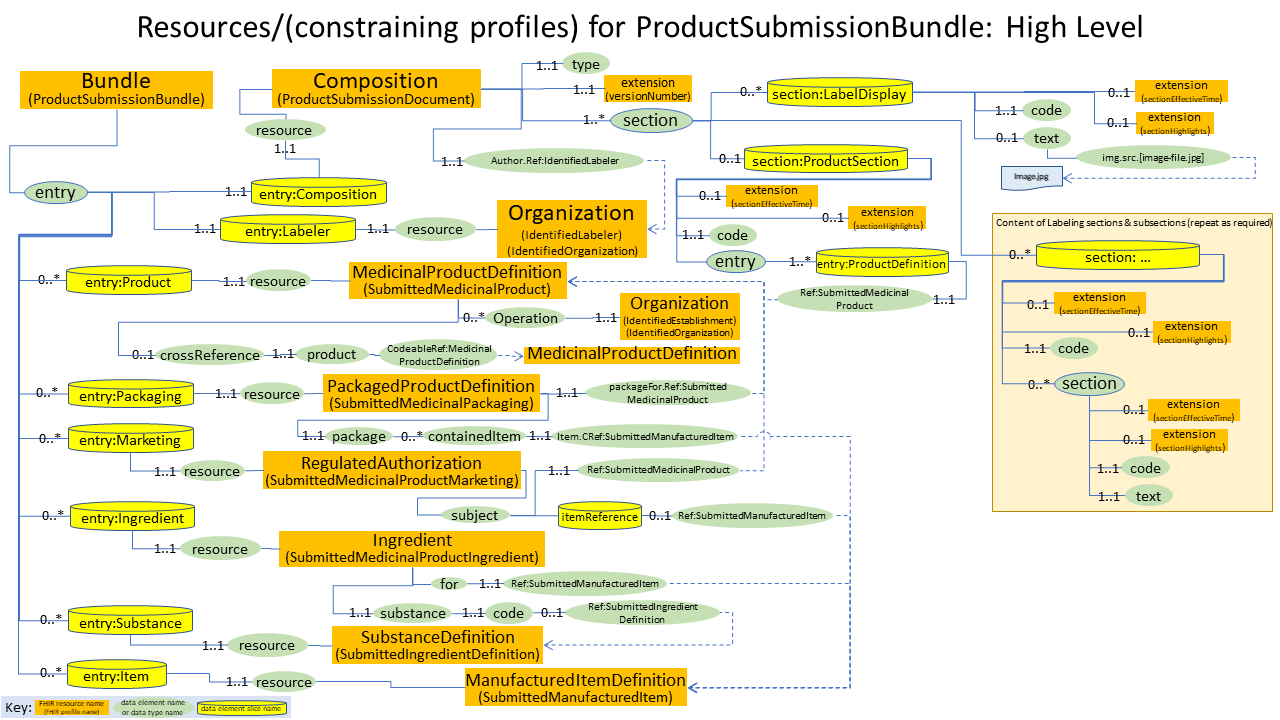
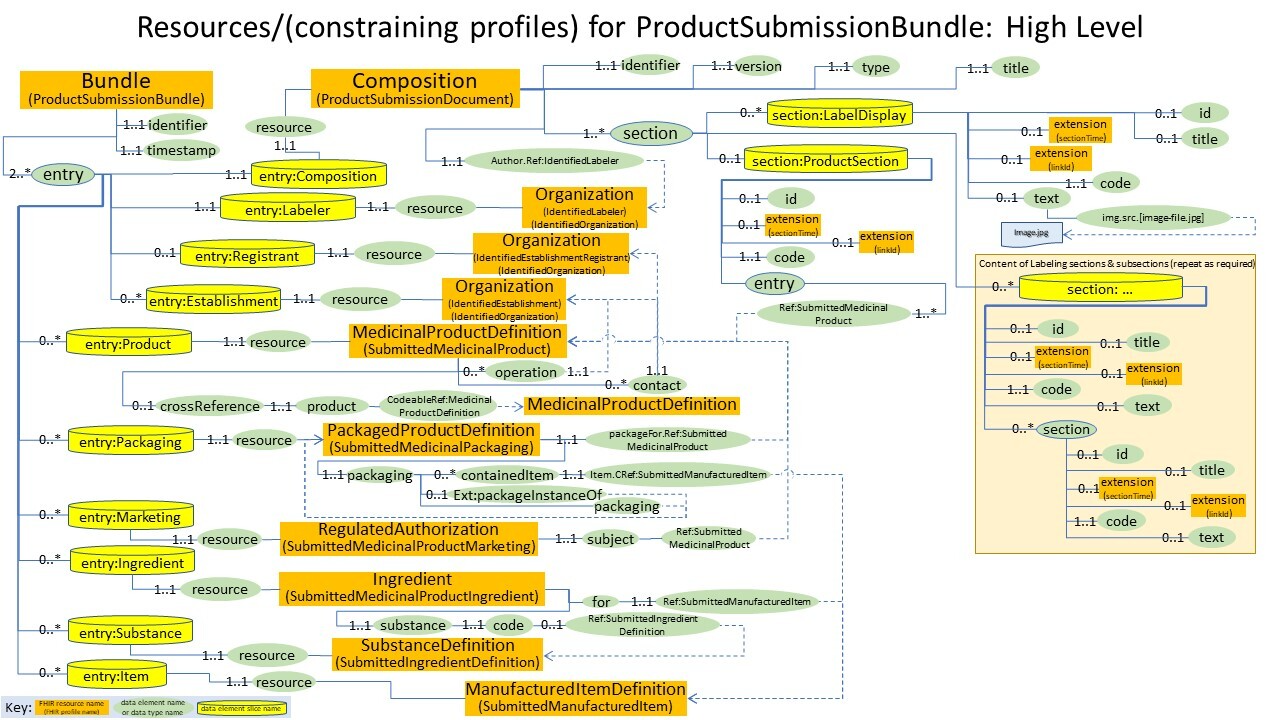
Update some diagrams and text around packaging.

diff --git a/input/pagecontent/howtolabel.md b/input/pagecontent/howtolabel.md
@@ -9,7 +9,7 @@ The Bundle.timestamp is the effective time of the document.
 #### Product Submission Composition
 The Composition.identifier is a version-independent identifier of the document and is equivalent to SPL's Set Id.
 
-The Composition.versionNumber extension is used to identify the version of this document.
+The Composition.version is used to identify the version of this document.
 
 The Composition.type is a LOINC code that identifies the specific type of Drug Label document.
 
@@ -143,7 +143,7 @@ The SubstanceDefinition.identifier specifies the ingredient code.
 
 The SubstanceDefinition.name specifies the ingredient name.
 
-The SubstanceDefinition.moiety lists one or two active moieties.  Each active moiety contains an identifier which is the active moiety code and a name.
+The SubstanceDefinition.moiety lists one or two active moieties.  Each active moiety contains a name and an identifier, which is the active moiety code.
 
 ##### Submitted Medicinal Product Marketing
 
@@ -151,7 +151,7 @@ A product's Marketing Category is specified using the Submitted Medicinal Produc
 
 RegulatedAuthorization.identifier is the marketing application number.
 
-RegulatedAuthorization.subject is a reference to the specific product for this marketing category.
+RegulatedAuthorization.subject is a reference to the specific product being authorized.
 
 RegulatedAuthorization.type is the category code.
 
@@ -167,19 +167,19 @@ PackagedProductDefinition.packageFor references the specific product for this pa
 
 The PackagedProductDefinition.marketingStatus specifies the marketing status of the packaged product.  The status code is the marketing status and the dateRange contains the marketing status dates.
 
-The actual package details are contained in the PackagedProductDefinition.package elements.  Unlike SPL, the FHIR packaging starts with the outermost packaging, i.e. a box, and then nested package elements specify inner packaging, i.e. a bottle.  Eventually, the inner most packaging will reference a contained item which points to the SubmittedManufacturedItem.
+The actual package details are contained in the PackagedProductDefinition.packaging elements.  Unlike SPL, the FHIR packaging starts with the outermost packaging, i.e. a box, and then nested package elements specify inner packaging, i.e. a bottle.  Eventually, the inner most packaging will reference a contained item which points to the SubmittedManufacturedItem.  See the details on PackagedProductDefinition.packaging.packaging below.
 
-PackagedProductDefinition.package.identifier specifies the package item code.
+PackagedProductDefinition.packaging.identifier specifies the package item code.
 
-PackagedProductDefinition.package.type specifies the package form code.
+PackagedProductDefinition.packaging.type specifies the package form code.
 
-PackagedProductDefinition.package.quantity specifies the number of this package within the outer package.  The outermost package will either not specify this or set it to 1.
+PackagedProductDefinition.packaging.quantity specifies the number of this package within the outer package.  The outermost package will either not specify this or set it to 1.
 
-PackagedProductDefinition.package.property is used to indicate whether the package contains a combination package.
+PackagedProductDefinition.packaging.property is used to indicate whether the package contains a combination package.
 
-PackagedProductDefinition.package.package is used to specify nested packages.
+PackagedProductDefinition.packaging.packaging is used to specify nested packages.
 
-PackagedProductDefinition.package.containedItem is used to specify the specific product item that is contained in the innermost packaging.  containedItem.item.reference is a reference to the SubmittedManufacturedItem instance and containedItem.amount is the quantity of that product that is contained in the packaging.
+PackagedProductDefinition.packaging.containedItem is used to specify the specific product item that is contained in the innermost packaging.  containedItem.item.reference is a reference to the SubmittedManufacturedItem instance and containedItem.amount is the quantity of that product that is contained in the packaging.
 
-NOTE: In FHIR, the entire packaged product has a marketing status.  However, in SPL, individual packages within a packaged product can specify a marketing status.  The PackagedProductDefinition.package.packageInstanceOf extension is used to refer to a separate instance of SubmittedMedicinalPackaging for the inner package marketing status details.
+NOTE: In FHIR, the entire packaged product has a marketing status.  However, in SPL, individual packages within a packaged product can specify a marketing status.  The PackagedProductDefinition.packaging.packageInstanceOf extension is used to refer to a separate instance of SubmittedMedicinalPackaging for the inner package marketing status details.
 
